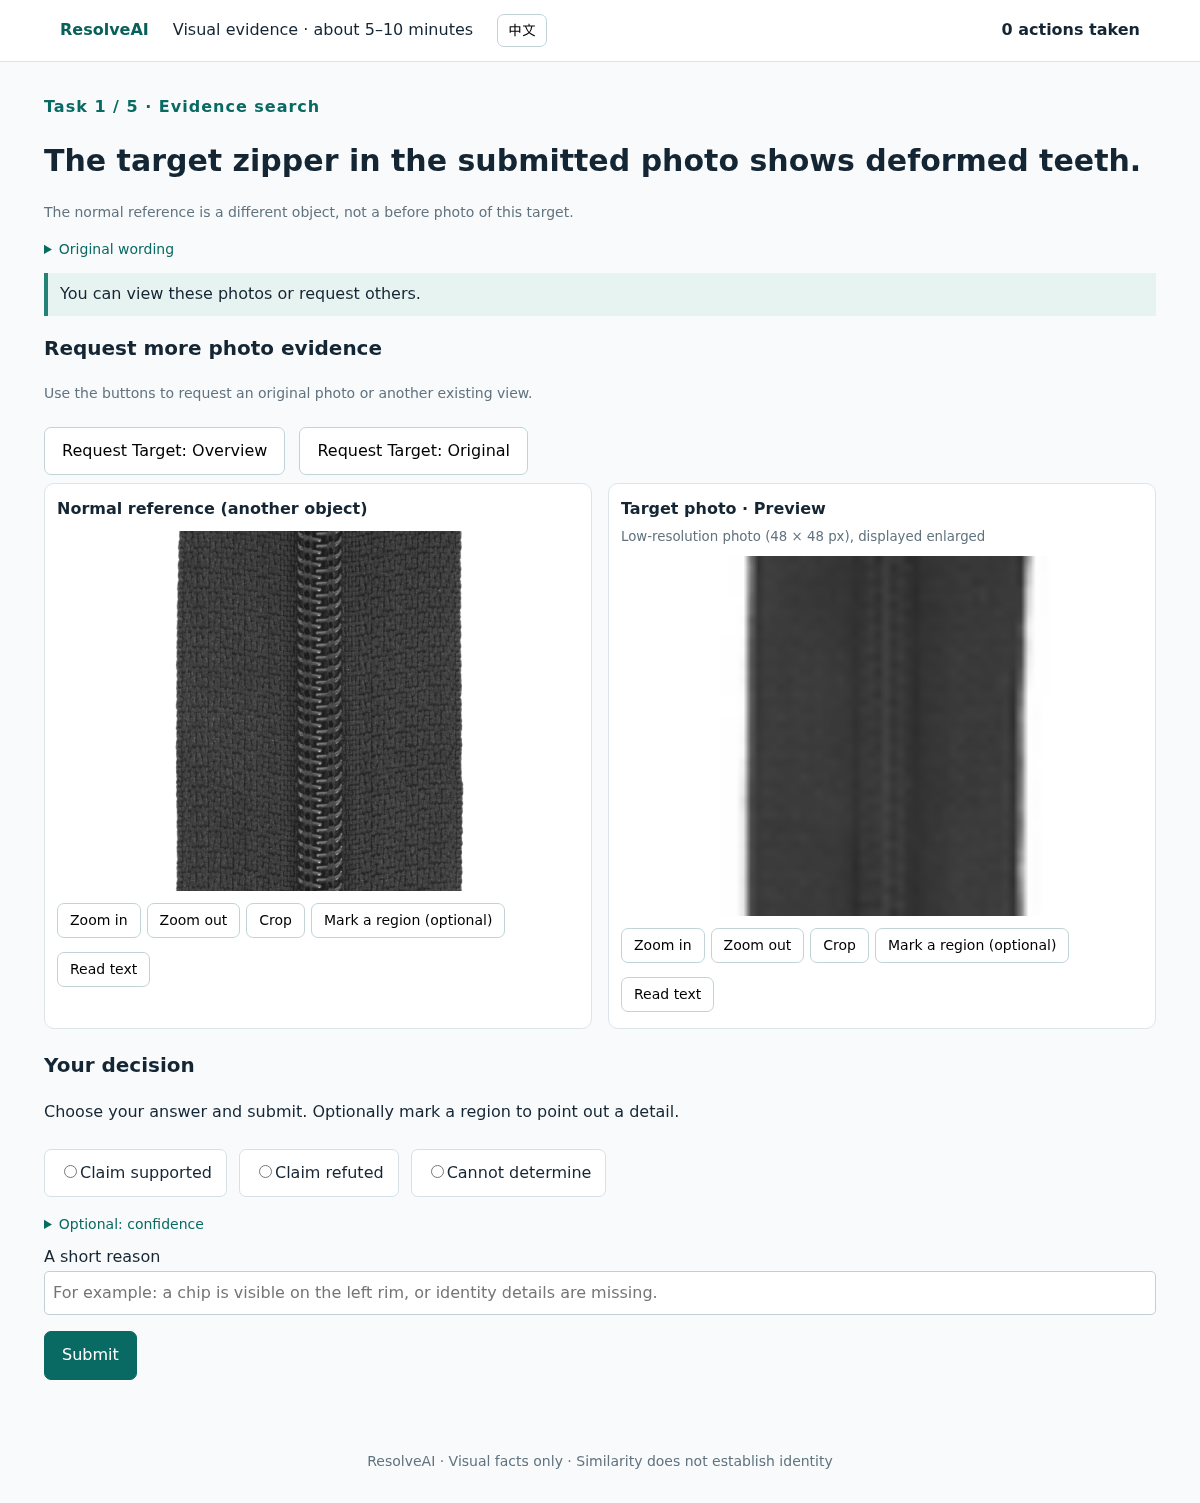
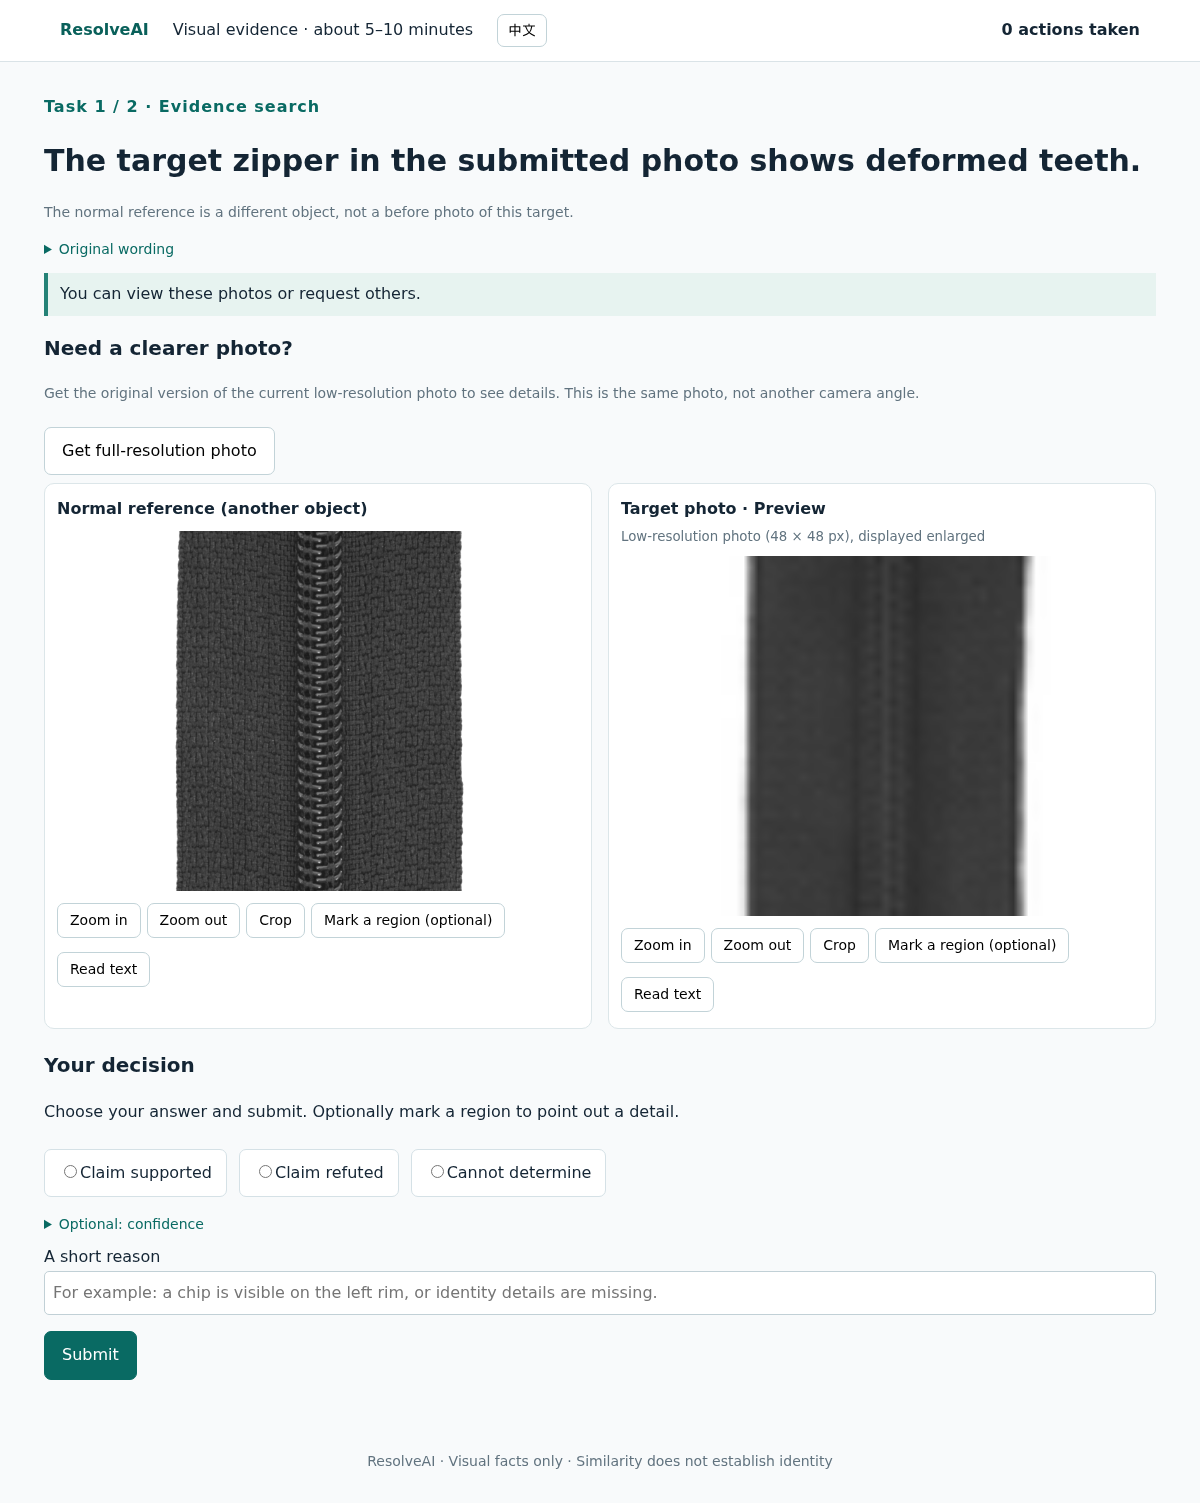
Clarify original-photo requests and remove duplicate preview requests

Changed region(s): [[0.0617, 0.2142, 0.4625, 0.3061]]

diff --git a/src/resolveai/web/app.js b/src/resolveai/web/app.js
@@ -345,9 +345,29 @@ function photoRequests(data) {
   $("request-buttons").replaceChildren();
   if (data.condition !== "interactive") return;
   const o = data.request_options;
+  if (data.task === "state" && o.views?.includes("original")) {
+    $("request-title").textContent = t("clearerPhoto");
+    $("request-note").textContent = t("originalHint");
+  } else {
+    $("request-title").textContent = t("requestPanel");
+  }
   for (const object of o.objects || []) {
     for (const time of o.times || []) {
       for (const view of o.views || []) {
+        // In single-photo state tasks, "overview" is the released preview,
+        // not an additional camera angle. Keep unknown views requestable.
+        if (
+          data.task === "state" &&
+          view === "overview" &&
+          data.images.some(
+            (p) =>
+              p.object === object &&
+              p.time === time &&
+              p.camera_view === "overview" &&
+              p.image_id === p.view_id,
+          )
+        )
+          continue;
         const b = document.createElement("button");
         b.type = "button";
         const subject =
@@ -365,8 +385,11 @@ function photoRequests(data) {
                 ? t("view", Number(view.slice(5)))
                 : view;
         b.textContent =
-          t("requestPhoto", subject, name) +
+          (view === "original"
+            ? t("getOriginal")
+            : t("requestPhoto", subject, name)) +
           ((o.times || []).length > 1 ? " · " + time : "");
+        if (view === "original") b.title = t("originalHint");
         b.onclick = () =>
           perform({ type: "request_photo", query: { object, time, view } });
         $("request-buttons").append(b);

diff --git a/src/resolveai/web/i18n.js b/src/resolveai/web/i18n.js
@@ -88,6 +88,12 @@ const UI_TEXT = {
     "All available photos are shown for this task; requesting photos is unavailable.",
   ],
   requestPhoto: ["请求{0}：{1}", "Request {0}: {1}"],
+  clearerPhoto: ["看不清？", "Need a clearer photo?"],
+  getOriginal: ["获取清晰原图", "Get full-resolution photo"],
+  originalHint: [
+    "获取当前低清照片的原始版本，用来看细节；不是另一个拍摄角度。",
+    "Get the original version of the current low-resolution photo to see details. This is the same photo, not another camera angle.",
+  ],
   photoProvided: ["新照片已显示在上方。", "The new photo is shown above."],
   photoAlreadyShown: [
     "这张照片已在上方显示，没有新增图片。",

diff --git a/docs/human_study.zh-CN.md b/docs/human_study.zh-CN.md
@@ -14,7 +14,7 @@
 
 ## 五题怎样走
 
-前三题是搜证：分别只提供初始材料、允许索取材料、提供全部可获取材料。三种条件的顺序按人随机；图片已经并排显示，可直接对照查看。每种条件都可放大、缩小、裁剪、可选画框或 OCR（可用时）。只有允许索证的那题能请求额外材料。“请求新的图片证据”直接显示在图片上方，不折叠；按钮标明“请求目标：原图”或具体对象／视角。其他条件明确说明不提供索证操作。成功请求后提示新照片已显示；重复请求已展示的照片会提示没有新增。
+前三题是搜证：分别只提供初始材料、允许索取材料、提供全部可获取材料。三种条件的顺序按人随机；图片已经并排显示，可直接对照查看。每种条件都可放大、缩小、裁剪、可选画框或 OCR（可用时）。只有允许索证的那题能请求额外材料。“请求新的图片证据”直接显示在图片上方，不折叠；状态题显示“看不清？”和“获取清晰原图”，注明它是当前低清照片的原始版本，不是另一个拍摄角度。已显示的低清“概览”不再成为重复请求选项；身份题的其他实际视角仍按对象／视角请求。其他条件明确说明不提供索证操作。成功请求后提示新照片已显示；重复请求已展示的照片会提示没有新增。
 
 后两题是独立图片审核：开始就显示完整可获取材料，同样能操作图片，选择结论，画框可选，**一次提交完成一题**。不再为同一声明重复五轮提问。每次“下一题”都进入另一个案件；不会是同一来源实物。新建题单同时避免重复物品类别；本次已冻结题库的迁移说明见下文。
 

diff --git a/docs/status.md b/docs/status.md
@@ -105,3 +105,7 @@ Human UI v4 displays low-resolution photos at a usable size, provides image oper
 ### 2026-10-06：让索证入口直接可见
 
 “请求新的图片证据”改为展开的区域，允许索证的题直接显示原图／视角按钮；初始池题和完整池审核题写明不提供索证操作。新照片与重复返回的反馈区分，题库、实验条件和已保存回答保持原样。
+
+### 2026-10-06：明确低清照片与原图的关系
+
+状态题去掉已显示低清“概览”的重复请求按钮，只显示“获取清晰原图”，说明返回当前照片的原始版本，用于查看细节，并非新增拍摄视角。未展示的视角仍可请求。模型协议与证据池保持不变。
